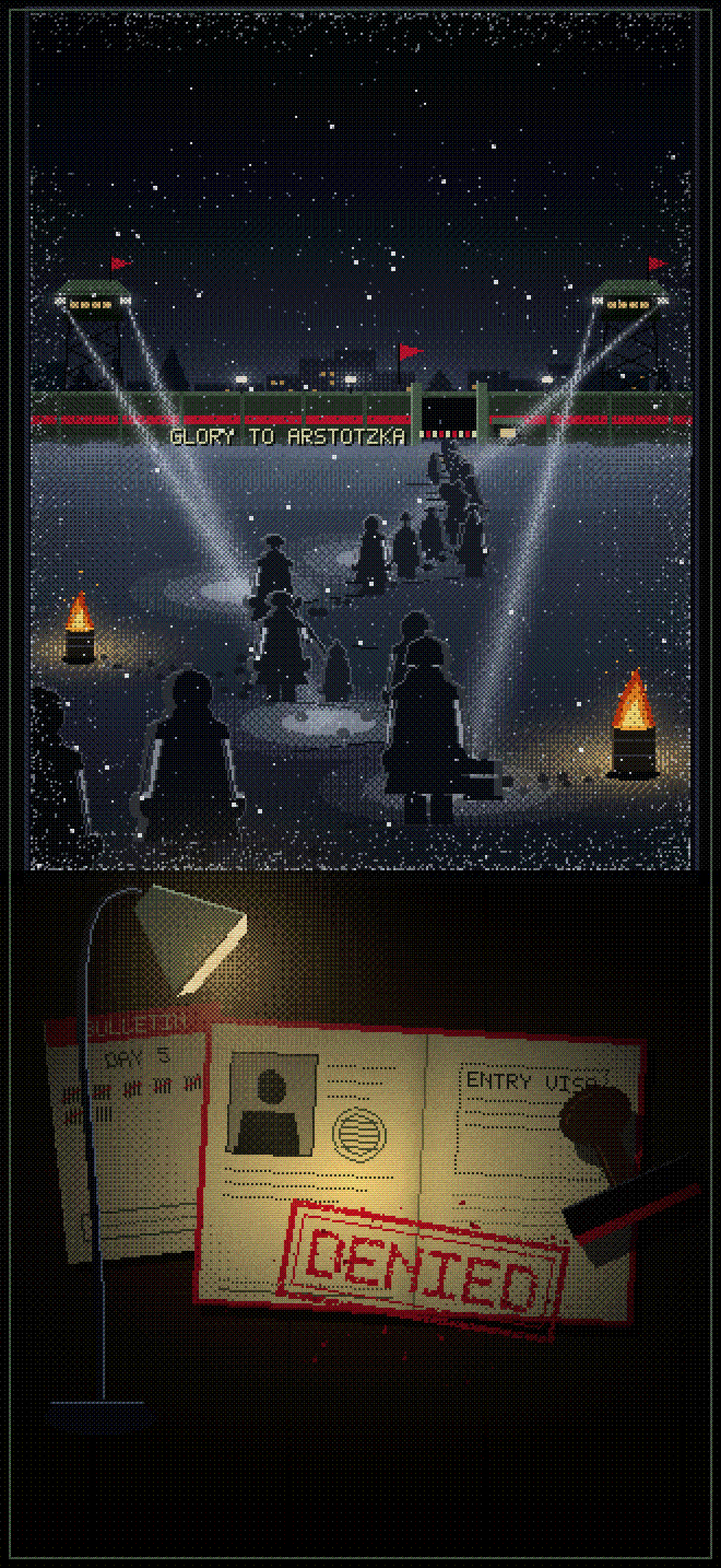
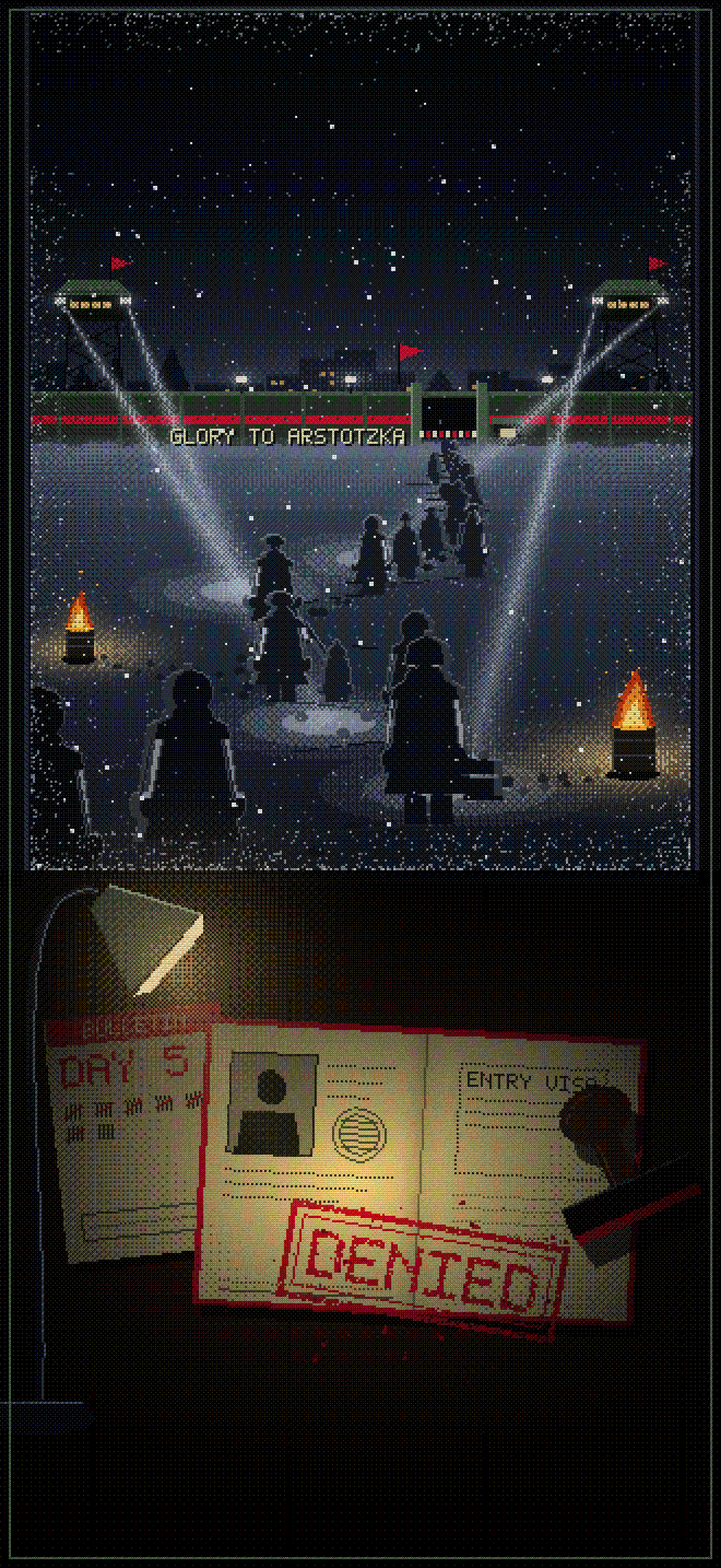
papers wallpaper: lamp off the bulletin, the day in big red, the tally scales to fit the whole run
Claude-Session: https://claude.ai/code/session_01GRUokM32JgeWkBY35PaRht

Changed region(s): [[0.0311, 0.4965, 0.5902, 0.8999]]

diff --git a/tools/papersart.py b/tools/papersart.py
@@ -32,7 +32,7 @@ LAYOUT = {   # low-res coordinates. The phone keeps y < 70 (the clock) sky only,
         yard=dict(win=(14, 6, 316, 398), hor=205, wall=26, yb=470, gate=205, gw=30, towers=[42, 288], ctop=134, tu=1, posts=[110, 160, 250],
                   beams=[(150, 330, 46), (110, 270, 40), (210, 360, 50), (170, 255, 36)], h0=6, h1=128, gap=.26, near_x=96, amp=96, bends=4.3, calm=70, barrels=[(36, 300, 1.5), (290, 352, 2.3)]),
         scale=1, dtop=405, pool=(160, 540, 205, 140), pp=(192, 536, 98, 126, -3), bul=(66, 518, 82, 112, 6), stamp=(194, 582, 3, -10),
-        tool=(282, 532, 1.5, 24), lamp=(66, 410, 46, 646, 41)),
+        tool=(282, 532, 1.5, 24), lamp=(46, 410, 18, 646, 41)),
     "desktop": dict(
         yard=dict(win=(22, 10, 618, 212), hor=122, wall=22, yb=292, gate=330, gw=22, towers=[96, 560], ctop=72, tu=.7, posts=[190, 250, 440],
                   beams=[(250, 190, 34), (210, 160, 30), (420, 200, 36), (370, 168, 28)], h0=4, h1=78, gap=.15, near_x=150, amp=200, bends=3.2, calm=0, barrels=[(70, 170, 1.1), (580, 190, 1.5)]),
@@ -92,10 +92,10 @@ def bulletin(w, h):
     """The run's own bulletin: the last finished day, then a tally mark for every entrant processed so far."""
     im, d = layer(w, h); d.rectangle([0, 0, w - 1, h - 1], fill=PAPER); d.rectangle([0, 0, w - 1, 12], fill=RED); text(d, w // 2 - width("BULLETIN", 1) // 2, 3, "BULLETIN", CREAM, 1)
     rows = [json.loads(l) for l in RUN.read_text().splitlines() if l.strip()] if RUN.exists() else []
-    day = f"DAY {rows[-1]['day']}" if rows else "DAY 1"; text(d, w // 2 - width(day, 1) // 2, 18, day, DOLIVE, 1)
-    per = (w - 12) // 14 * 5; n = sum(r["entrants"] for r in rows)   # ponytail: rows that don't fit under the day line are dropped
-    for i in range(min(n, per * ((h - 60) // 10))):
-        g, k = divmod(i % per, 5); x, y = 6 + g * 14 + k * 2, 32 + (i // per) * 10
+    day = f"DAY {rows[-1]['day']}" if rows else "DAY 1"; ds = 2 if w >= 70 else 1; text(d, 6, 18, day, RED, ds)   # left: the passport covers the right edge
+    per = (w - 12) // 14 * 5; cap = per * ((h - 22 - 9 * ds) // 10); n = sum(r["entrants"] for r in rows)
+    for i in range(n // -(-n // cap) if n else 0):   # once the run outgrows the paper, each mark stands for a few entrants
+        g, k = divmod(i % per, 5); x, y = 6 + g * 14 + k * 2, 22 + 9 * ds + (i // per) * 10
         if k < 4: d.line([(x, y), (x, y + 6)], fill=DOLIVE)
         else: d.line([(x - 9, y + 5), (x - 1, y + 1)], fill=RED)   # the fifth mark strikes the four
     d.rectangle([8, h - 22, w - 9, h - 10], outline=OLIVE); dashes(d, 12, w - 20, h - 16, OLIVE)
